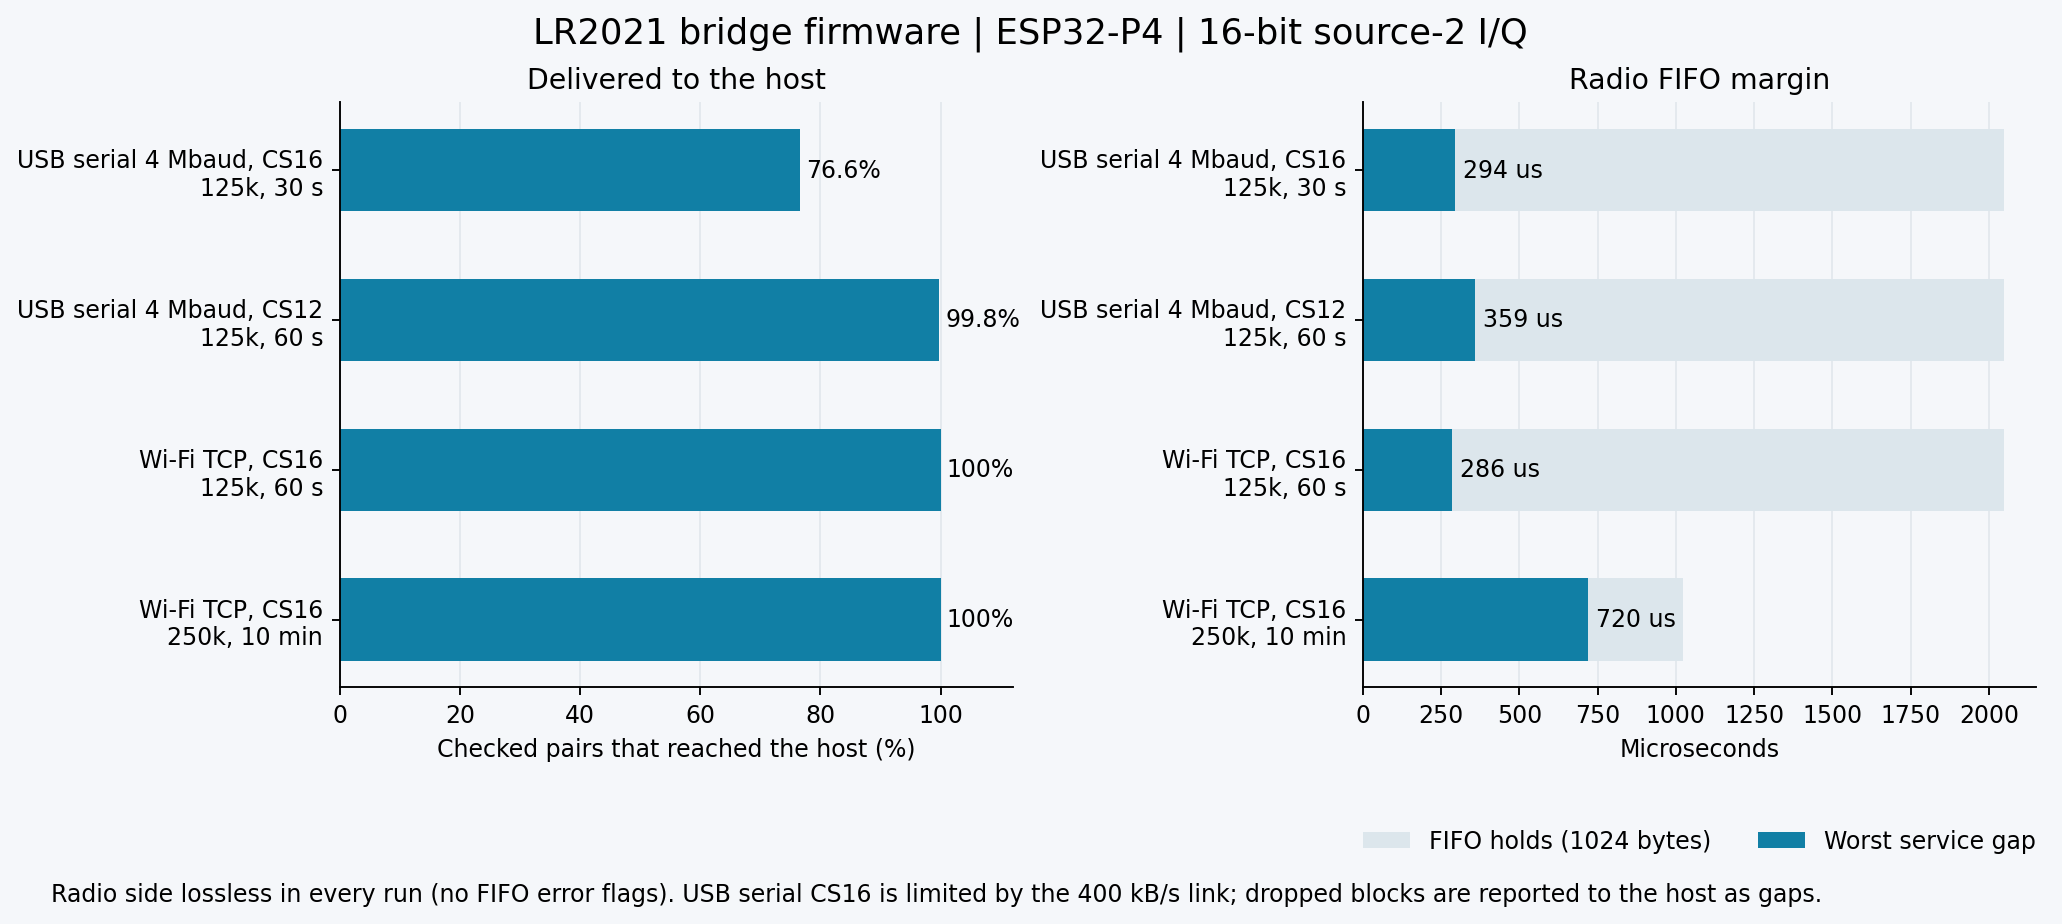
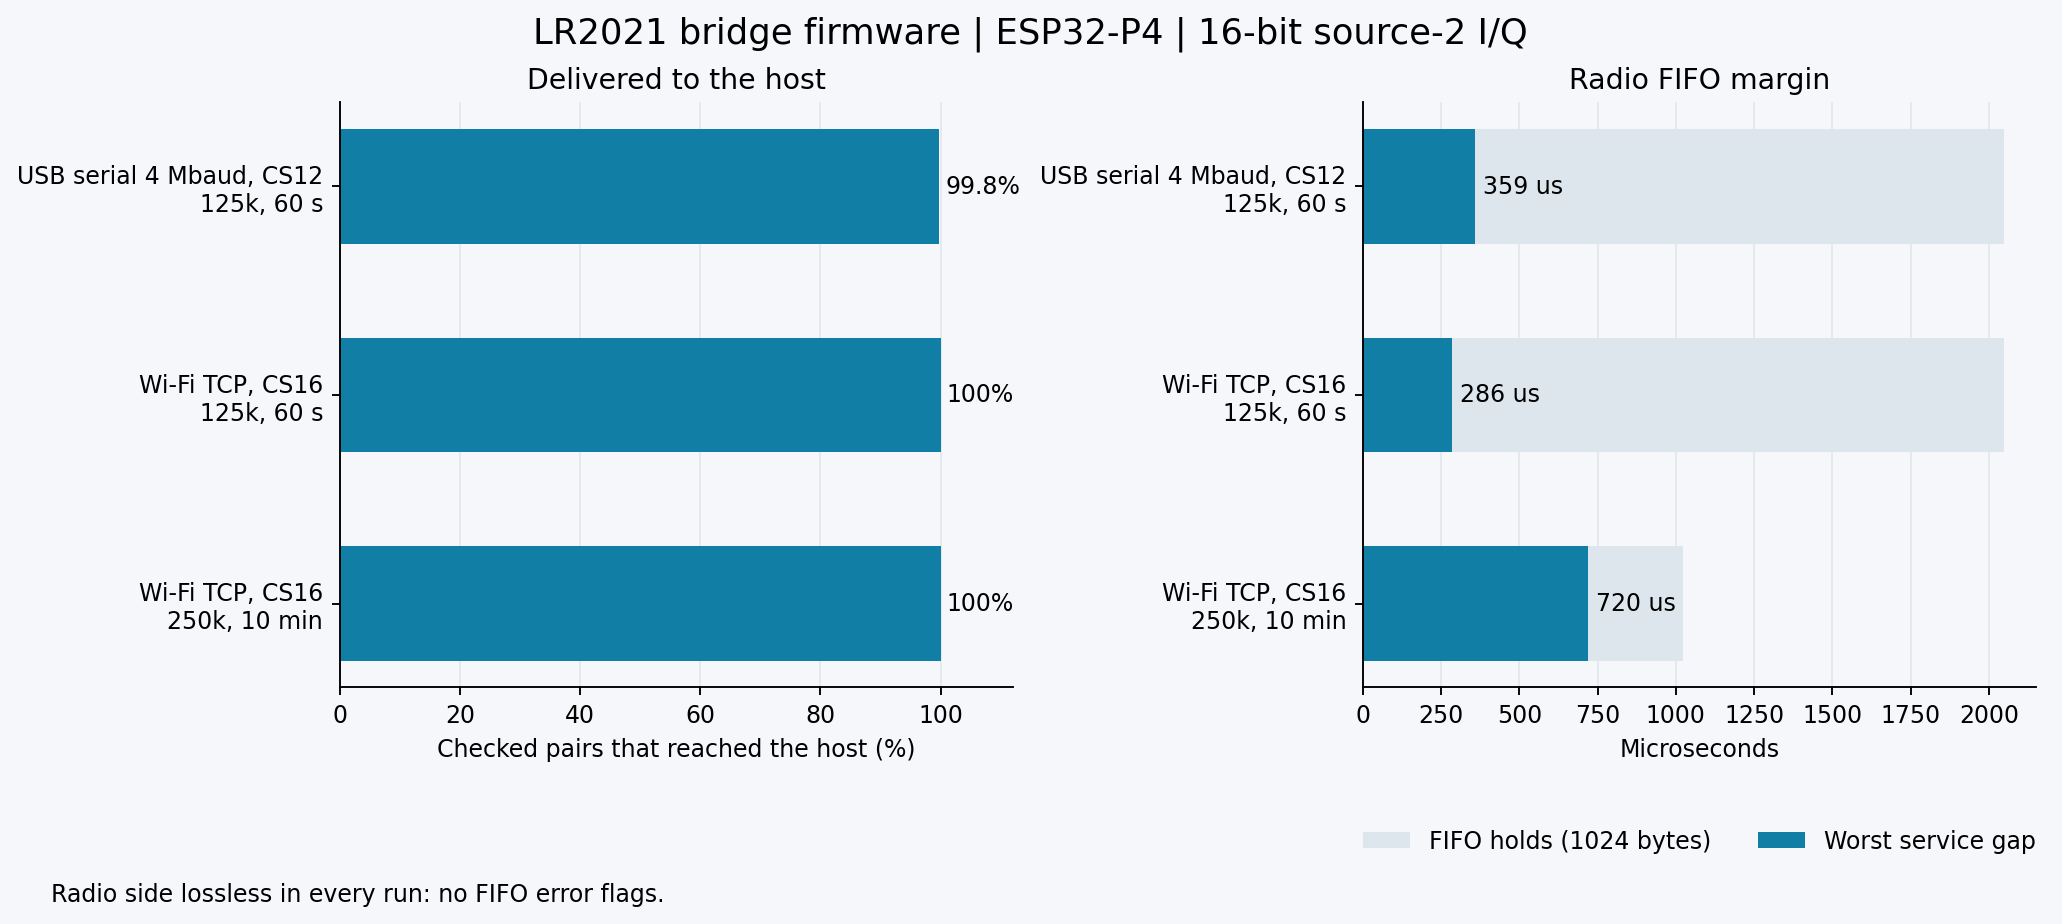
README: describe the links and results by what they do
The streaming graph and captions show the CS12 serial and Wi-Fi runs; wording across README.md and the firmware README states what works and drops the hedging lines.

diff --git a/tools/plot_bridge_results.py b/tools/plot_bridge_results.py
@@ -28,7 +28,6 @@ def style(ax):
 # Link, run, share of checked pairs delivered (%), worst FIFO service gap (us),
 # time the 1024-byte FIFO holds at that rate (us).
 RUNS = [
-    ("USB serial 4 Mbaud, CS16\n125k, 30 s", 76.6, 294, 2048),
     ("USB serial 4 Mbaud, CS12\n125k, 60 s", 99.8, 359, 2048),
     ("Wi-Fi TCP, CS16\n125k, 60 s", 100.0, 286, 2048),
     ("Wi-Fi TCP, CS16\n250k, 10 min", 100.0, 720, 1024),
@@ -59,8 +58,7 @@ def streaming():
     b.set_title("Radio FIFO margin")
     b.legend(loc="lower center", bbox_to_anchor=(.5, -.32), ncol=2, frameon=False)
     fig.suptitle("LR2021 bridge firmware | ESP32-P4 | 16-bit source-2 I/Q", fontsize=15)
-    fig.text(.02, -.05, "Radio side lossless in every run (no FIFO error flags). USB serial CS16 is "
-             "limited by the 400 kB/s link; dropped blocks are reported to the host as gaps.", fontsize=10)
+    fig.text(.02, -.05, "Radio side lossless in every run: no FIFO error flags.", fontsize=10)
     out = root / "docs/images/bridge-streaming.png"
     fig.savefig(out, dpi=170, bbox_inches="tight")
     print(out)

diff --git a/README.md b/README.md
@@ -59,7 +59,7 @@ This repository holds the radio access library, the host SDR support (C client, 
 - **Build with it:** Explore the portable C library and [developer guide](docs/developer-guide.md).
 - **Try waveform transmission:** Read the [transmit guide](docs/transmit.md) and [current capabilities](docs/tx-playback.md#remaining-scope).
 
-The work is experimental and has been tested on **LR2021 ROM 1.24**. See [hardware and setup](docs/hardware.md) for board requirements.
+Tested on **LR2021 ROM 1.24**. See [hardware and setup](docs/hardware.md) for board requirements.
 
 ## Use it as an SDR on a computer
 
@@ -89,7 +89,7 @@ lr2021_tcp -d serial=COM5,baud=4000000,format=cs12
 
 [![Share of samples delivered and radio FIFO margin for USB serial and Wi-Fi at 125k and 250k samples/s](docs/images/bridge-streaming.png)](firmware/esp32p4/README.md#use-it-from-a-computer)
 
-*Wi-Fi carries 16-bit samples at 250,000/s without loss. The USB serial link tops out at 4 Mbaud, so 125,000 samples/s goes over it as CS12, a 12-bit packing of the same samples. The radio side was lossless in every run.*
+*Wi-Fi carries 16-bit samples at 250,000/s without loss, and USB serial carries 125,000/s as CS12, a 12-bit packing of the same samples. The radio side was lossless in every run.*
 
 [![HackRF spectrogram of a 433.92 MHz burst sent through SoapySDR writeStream](docs/images/tx-433-burst.png)](docs/host-sdr.md#transmit)
 
@@ -115,7 +115,7 @@ Live reception has produced audible P25 Phase 1 calls. A saved recording also de
 
 *A one-second call recording at 154.785 MHz. These same samples decoded into 27 IMBE voice frames offline.*
 
-Transmit tests sent P25 voice-data bursts carrying a test tone. An independent receiver recovered **72 voice frames** and reconstructed the expected tone. This is experimental burst transmission.
+Transmit tests sent P25 voice-data bursts carrying a test tone. An independent receiver recovered **72 voice frames** and reconstructed the expected tone.
 
 [P25 results and setup](docs/p25.md) · [Listen to the recovered TX tone](research/tx-p25/evidence/v13-p25-voice19200/recovered.wav)
 
@@ -131,7 +131,7 @@ Three separate sessions ran for up to **391 seconds**, with no reported FIFO los
 
 ### Receive range
 
-Retuning tests against the board's own clock harmonics show the receive chain working from **100 MHz to 2740 MHz**, well beyond the datasheet bands. Below 100 MHz image calibration fails, and above about 2750 MHz the synthesizer does not lock.
+Retuning tests against the board's own clock harmonics show the receive chain working from **100 MHz to 2740 MHz**, well beyond the datasheet bands.
 
 A second check used a known signal. Inside a shielded enclosure a HackRF One sent one tone 30 kHz above each test frequency, and the LR2021 looked for it, receive only.
 
@@ -146,7 +146,7 @@ A second check used a known signal. Inside a shielded enclosure a HackRF One sen
 | 2740 MHz | above the HF band | 42 dB |
 | 2760 MHz | above the HF band | none: `PLL_LOCK`, no samples |
 
-Low band with a VHF whip and the HackRF at TX gain 20; 2600 and 2740 MHz with a 433 MHz antenna and TX gain 0. Levels are relative, not a sensitivity figure. [Method](research/rx-range-and-gain/README.md#shielded-tone-check)
+Low band with a VHF whip and the HackRF at TX gain 20; 2600 and 2740 MHz with a 433 MHz antenna and TX gain 0. Levels are relative to the quiet capture. [Method](research/rx-range-and-gain/README.md#shielded-tone-check)
 
 [Range, sample rate, gain and Bluetooth LE results](research/rx-range-and-gain/README.md)
 
@@ -165,7 +165,7 @@ The recorder waits for a signal 10 dB over the floor and keeps 10 ms from before
 
 [![Measured complex sample rates follow four times the configured LoRa bandwidth](docs/images/sample-rates.png)](docs/technical-overview.md#hardware)
 
-Known-tone estimates for four tested bandwidths ranged from about **125,000 to 1,000,000 complex samples per second**. These are short-window measurements, not continuous-streaming rate limits. Continuous 16-bit streaming is verified at up to **250,000 samples per second** over SPI at 26.67 MHz.
+Known-tone estimates for four tested bandwidths ranged from about **125,000 to 1,000,000 complex samples per second**. These are short-window measurements. Continuous 16-bit streaming is verified at up to **250,000 samples per second** over SPI at 26.67 MHz.
 
 ### I/Q orientation
 
@@ -199,7 +199,7 @@ Separate +25 kHz and −15 kHz RF-offset tones verify frequency direction in the
 
 **[sfowlr](https://github.com/sfowlr) shared his LR2021 research directly with this project.** On a Meshnology W12 with ROM 1.24, he reported sustained high-rate 8-bit I/Q receive, the source-0 rate converter, gain-order behavior, and native four-level FSK results. Those W12 findings and measurements are his. See his [RadioFoundryGateway hardware notes](https://github.com/RadioFoundry/RadioFoundryGateway/blob/e2a85653aab8ef13a497ed2b8891f102fac711c4/docs/spec/lr2021-iq.md), [LakeShark discussion #16](https://github.com/SAMS0N1TE/LakeShark/discussions/16), and our separate [LilyGO follow-up](research/community-2026-10/README.md). His additional privately shared notes are not included in this repository.
 
-Our LilyGO board reproduced bounded ~666k-pair/s IQ8 transport with large DMA FIFO reads and gave a different gain-register result after `SetRx`. TX scaling and four-level FSK remain untested here. The [follow-up](research/community-2026-10/README.md) keeps these results separate from sfowlr's W12 measurements.
+Our LilyGO board reproduced bounded ~666k-pair/s IQ8 transport with large DMA FIFO reads and gave a different gain-register result after `SetRx`. The [follow-up](research/community-2026-10/README.md) keeps these results separate from sfowlr's W12 measurements.
 
 ### Other credits
 

diff --git a/firmware/esp32p4/README.md b/firmware/esp32p4/README.md
@@ -13,7 +13,7 @@ default hardware.
 - ESP32-P4 revisions 0.1 through 1.x, 16 MB flash. The supplied build does not
   support P4 revision 3.x; rebuild for that revision in ESP-IDF menuconfig.
 - An antenna on MMCX1 (the default route) or the internal antenna, chosen with
-  `antenna`. Do not transmit on MMCX1 with nothing fitted.
+  `antenna`. Fit an antenna on MMCX1 before transmitting on it.
 - USB data connection to the LilyGO USB-to-UART console (CH343), 115200 baud.
 
 Default wiring: SCLK 2, MOSI 3, MISO 4, CS 24, BUSY 6. XL9535 at I2C address
@@ -71,8 +71,7 @@ P4 flash, PSRAM and high-speed USB use dedicated pads without GPIO numbers.
 Shared GPIOs, duplicate DIOs and IRQ/switch conflicts are refused. Check the
 schematic for other attached devices. `board default` stages build defaults;
 save and reboot to restore them. Invalid saved profiles leave the radio off;
-correct them in the console. NVS errors never erase other data. Other boards
-are untested. The ROM 1.24 requirement stays the same.
+correct them in the console. NVS errors never erase other data. The ROM 1.24 requirement stays the same.
 
 ## Flash a prebuilt image
 
@@ -133,10 +132,9 @@ recording. A failed capture cannot be dumped.
 | capture | 1..100 ms | 100 |
 | dump | none | Last successful recording |
 
-Separate captures have gaps; use the bridge below for continuous streaming.
-This firmware does not provide P25 decoding, audio or the LakeShark display.
-The three-second check limit keeps the synchronous console capture below the
-watchdog deadline.
+For continuous streaming, use the bridge below. P25 decoding, audio and the
+display are in LakeShark. The console `check` runs for up to three seconds,
+within the watchdog deadline.
 
 ## Use it from a computer
 
@@ -168,12 +166,11 @@ pairs/s, so a Wi-Fi pause does not cost samples.
 
 | Link | Rate and format | Result on the LilyGO board |
 | --- | --- | --- |
-| USB serial, 4 Mbaud | 125000 pairs/s, CS12 | 60 s: no device drops; 99.8% delivered (CRC-bad frames are the rest) |
-| USB serial, 4 Mbaud | 125000 pairs/s, CS16 | 77% delivered: the link carries 400 kB/s of the 511 kB/s needed; drops are reported |
+| USB serial, 4 Mbaud | 125000 pairs/s, CS12 | 60 s: no device drops; 99.8% delivered |
 | Wi-Fi TCP | 125000 pairs/s, CS16 | 60 s, every pair delivered |
 | Wi-Fi TCP | 250000 pairs/s, CS16 | 10 min, 150,003,050 pairs, every pair delivered |
 
-4 Mbaud is the highest rate the LilyGO CH343 links at; 5 Mbaud does not link.
+The bridge runs the LilyGO CH343 at 4 Mbaud, with CS12 for 125000 pairs/s.
 On Windows, give the serial port a receive buffer of a few megabytes before
 streaming; the default 4 KB fills in about 10 ms at 400 kB/s.
 
@@ -190,8 +187,7 @@ retained for this test.
   offsets, CRC32 and recovery, producing 12504 IQ16 pairs.
 - Rejected an out-of-range check duration without starting a capture.
 
-This validates the console capture path. Other wiring and clean-install
-bootloader behavior have not been tested on hardware.
+This validates the console capture path.
 
 The bridge was tested on the same board, with Wi-Fi through its ESP32-C6
 (2026-10-27):
